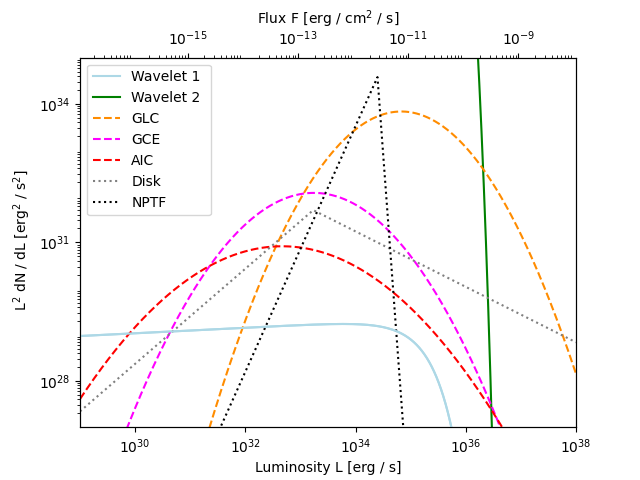
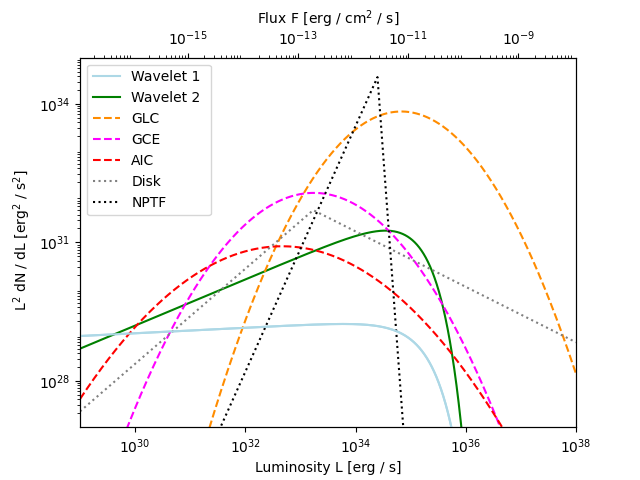
error fixed but not in the coolest way

diff --git a/luminosity_func.py b/luminosity_func.py
@@ -4,18 +4,21 @@
 
 import numpy as np
 import matplotlib.pyplot as plt
-from scipy.special import gammaincc, gamma
+from scipy.special import gammaincc,gamma, exp1
 import os
 
 #****************************************************************************
 #LUMINOSITY FUNCTIONS DEFINITIONS
 
 #power law lum func(high flux exp c-o, low flux step c-o)
-def power_law (l, alpha , l_min , l_max):   #alpha: slope, l_min = step c-o, l_max: exp c-o               
-    den = 5.84e-28
+def power_law (l, alpha , l_min , l_max, a):   #alpha: slope, l_min = step c-o, l_max: exp c-o               
+    if (a):
+        den =5.84e-28
+    else:
+        den = 6.31e-15
     num = l**(-alpha) * np.exp(-l/l_max)
 
-    return num / den
+    return num / den 
 #-----------------------------------------------------------------------------
 
 #log normal lum func
@@ -61,7 +64,7 @@ l_m1 = 1.0e29  #erg s^(-1)  #L_min : low flux step-func cutoff
 l_M1 = 1.0e35  #erg s^(-1)   #L_MAX : high flux exp cutoff
 alpha1 = 1.94  #slope
 
-p_pl1 = power_law(l , alpha1 , l_m1 , l_M1) #ming power law lum func
+p_pl1 = power_law(l , alpha1 , l_m1 , l_M1, True) #ming power law lum func
 
 #-----------------------------------------------------------------------------
 #wavelet 2 - power law 
@@ -69,7 +72,7 @@ l_m2 = 1.0e29  #erg s^(-1)  #L_min : low flux step-func cutoff
 l_M2 = 7.0e34  #erg s^(-1)   #L_MAX : high flux exp cutoff
 alpha2 = 1.5  #slope
 
-p_pl2 = power_law(l, alpha2, l_m2, l_M2) #bartles power law lum funcs
+p_pl2 = power_law(l, alpha2, l_m2, l_M2, False) #bartles power law lum funcs
 
 #-----------------------------------------------------------------------------
 #GLC - log normal

diff --git a/tests.py b/tests.py
@@ -16,7 +16,7 @@ import os
 def integrand(t, a):
     return t**(a-1) * np.exp(-t)
 
-def gamma_inc(s, x):
-    return integrate.quad(integrand, x,100000000, args=(s))[0]
+def gamma_inc(s,x):
+    return integrate.quad(integrand, 1.0e-6 ,1000000000,  args=(s))
 
-print(gamma_inc(-0.94,10**(-6)))
+print(gamma_inc(-0.94, 1))
